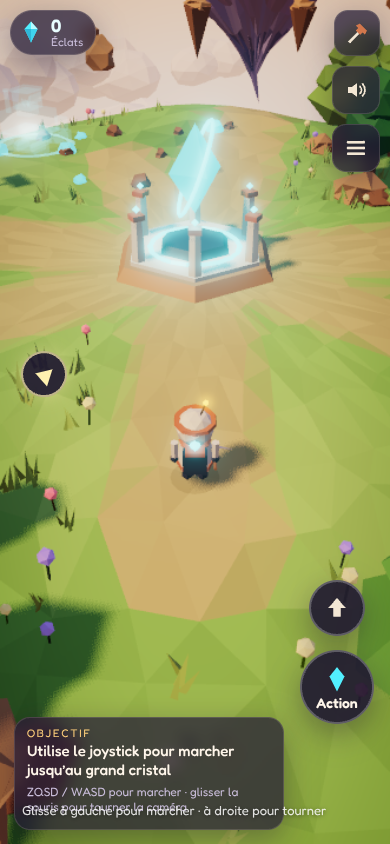
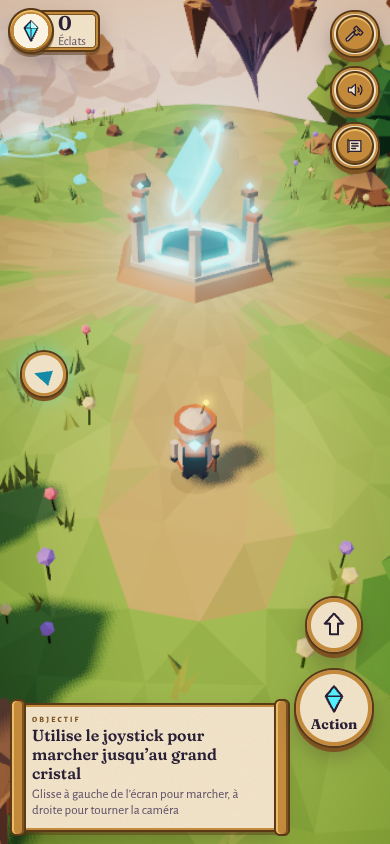
README screenshots of the new interface
Claude-Session: https://claude.ai/code/session_01L875Qdvz7Ba2hnRKMZFTjN

diff --git a/README.md b/README.md
@@ -7,8 +7,8 @@ Un jeu incrémental (idle / clicker) **en 3D** dans le navigateur. Tu incarnes u
 
 | | |
 |---|---|
-| ![Archipel en pleine production](docs/archipel.png) | ![Foreuses et info-bulle](docs/foreuses.png) |
-| ![Nouvelle île après le prestige (automne)](docs/prestige-automne.png) | ![Version mobile](docs/mobile.png) |
+| ![En jeu : machines, convoyeurs, info-bulle](docs/jeu.png) | ![L’Atelier](docs/atelier.png) |
+| ![L’Autel des runes](docs/runes.png) | ![Version mobile](docs/mobile.png) |
 
 ## Lancer en local
 
